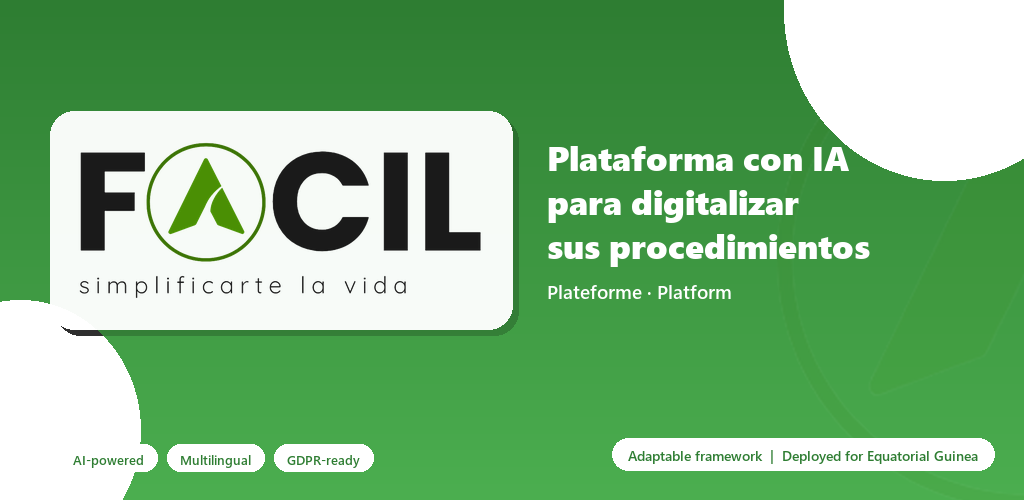
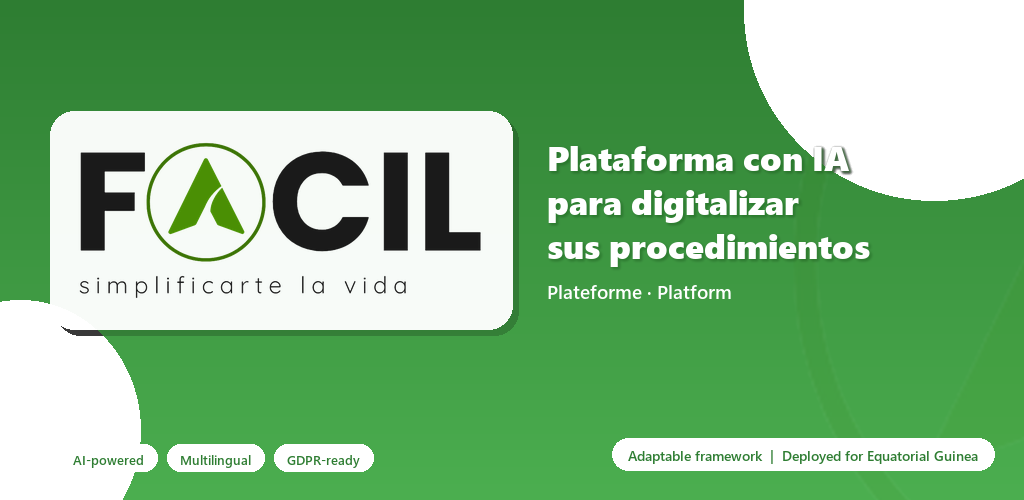
feat(mobile/phase10/E): feature graphic v7 + Settings About screen with copyright
Phase 10/E v3 — final iteration after user feedback 2026-05-02.

Feature graphic v7:
- Background icon enlarged x1.5 (600 -> 900px), same anchor (left edge
  at x=744 — preserves user's "garde la même position" requirement)
- Decorative circles RESTORED to v1 strict values (top-right 28 alpha,
  bottom-left 18 alpha) per user "remettre à l'état précédent"
- Hero text "Plataforma con IA para digitalizar sus procedimientos" —
  added a soft dark drop-shadow (offsets 1,1 + 2,2, alpha 60-90, 1.2px
  Gaussian blur) to guarantee legibility even where the green circle
  + faded bg-icon stack underneath the text. Without the shadow the
  "IA" word was visually clipped (v4-v6).
- All other elements unchanged: logo card lifted 30px, chips bottom-left,
  country pill bottom-right.

Settings -> About screen (NEW — user-validated relocation of copyright):
- packages/mobile/src/app/settings/about.tsx
    Lists app version + build number, current deployment country (GE),
    framework attribution (KOUEMOU SAH Jean Emac), contact email
    (kouemou.sah@gmail.com), GitHub repo link, copyright + license note
    + tech stack credits footer. All copy exposed as i18n keys to allow
    later overrides per deployment instance.
- packages/mobile/src/app/settings/_layout.tsx — register `about` route
- packages/mobile/src/app/(tabs)/profile.tsx — append "About Facil"
  list item to the existing Legal section (between Cookies and Danger
[…]

Changed region(s): [[0.7188, 0.0, 1.0, 0.42]]

diff --git a/packages/mobile/src/app/settings/about.tsx b/packages/mobile/src/app/settings/about.tsx
@@ -1,0 +1,169 @@
+/**
+ * About screen — app version, copyright, contact, framework attribution.
+ *
+ * Reachable from Profile screen → "About / Acerca de" list item. Implements
+ * the user-facing copyright placement (vs. on the Play Store feature graphic
+ * — see Phase 10/E critique §6 for the design rationale).
+ *
+ * Phase 10/E v3 (2026-05-02).
+ */
+
+import React from 'react';
+import { Linking, ScrollView, StyleSheet, View } from 'react-native';
+import { Divider, List, Text } from 'react-native-paper';
+import { Stack } from 'expo-router';
+import { useTranslation } from 'react-i18next';
+import Constants from 'expo-constants';
+
+import { useAppTheme } from '@core/theme';
+import { appConfig } from '@core/config/app';
+
+const COPYRIGHT_HOLDER = 'KOUEMOU SAH Jean Emac';
+const COPYRIGHT_EMAIL = 'kouemou.sah@gmail.com';
+const FRAMEWORK_REPO_URL = 'https://github.com/KouemouSah/taxasge';
+
+export default function AboutScreen() {
+  const { t } = useTranslation();
+  const { colors } = useAppTheme();
+
+  const version = Constants.expoConfig?.version ?? appConfig.app.version;
+  const buildNumber =
+    Constants.expoConfig?.android?.versionCode?.toString() ??
+    Constants.expoConfig?.ios?.buildNumber ??
+    'dev';
+  const currentYear = new Date().getFullYear();
+
+  const handleEmailPress = () => {
+    Linking.openURL(`mailto:${COPYRIGHT_EMAIL}?subject=Facil%20mobile%20app`);
+  };
+
+  const handleRepoPress = () => {
+    Linking.openURL(FRAMEWORK_REPO_URL);
+  };
+
+  return (
+    <>
+      <Stack.Screen options={{ title: t('settings.about.title', { defaultValue: 'About' }) }} />
+      <ScrollView
+        style={{ flex: 1, backgroundColor: colors.background }}
+        contentContainerStyle={styles.content}
+      >
+        {/* App identity */}
+        <View style={styles.brandSection}>
+          <Text variant="headlineMedium" style={[styles.appName, { color: colors.primary }]}>
+            Facil
+          </Text>
+          <Text variant="bodyMedium" style={{ color: colors.onSurfaceVariant }}>
+            {t('settings.about.tagline', {
+              defaultValue: 'Adaptable framework for digitizing administrative procedures',
+            })}
+          </Text>
+        </View>
+
+        <Divider />
+
+        {/* Version + build */}
+        <View style={{ backgroundColor: colors.surface }}>
+          <List.Item
+            title={t('settings.about.version', { defaultValue: 'Version' })}
+            description={`${version} (build ${buildNumber})`}
+            left={(props) => <List.Icon {...props} icon="information-outline" />}
+          />
+        </View>
+
+        <Divider />
+
+        {/* Current deployment instance */}
+        <View style={{ backgroundColor: colors.surface }}>
+          <List.Subheader style={{ color: colors.primary }}>
+            {t('settings.about.deployment', { defaultValue: 'Current deployment' })}
+          </List.Subheader>
+          <List.Item
+            title={t('settings.about.country', { defaultValue: 'Republic of Equatorial Guinea' })}
+            description={t('settings.about.partner', {
+              defaultValue: 'In partnership with the General Directorate of Taxes (DGI)',
+            })}
+            left={(props) => <List.Icon {...props} icon="earth" />}
+          />
+        </View>
+
+        <Divider />
+
+        {/* Framework + author */}
+        <View style={{ backgroundColor: colors.surface }}>
+          <List.Subheader style={{ color: colors.primary }}>
+            {t('settings.about.framework', { defaultValue: 'Framework' })}
+          </List.Subheader>
+          <List.Item
+            title={t('settings.about.author', { defaultValue: 'Author' })}
+            description={COPYRIGHT_HOLDER}
+            left={(props) => <List.Icon {...props} icon="account-outline" />}
+          />
+          <List.Item
+            title={t('settings.about.contact', { defaultValue: 'Contact' })}
+            description={COPYRIGHT_EMAIL}
+            left={(props) => <List.Icon {...props} icon="email-outline" />}
+            right={(props) => <List.Icon {...props} icon="open-in-new" />}
+            onPress={handleEmailPress}
+          />
+          <List.Item
+            title={t('settings.about.repo', { defaultValue: 'Source repository' })}
+            description="github.com/KouemouSah/taxasge"
+            left={(props) => <List.Icon {...props} icon="github" />}
+            right={(props) => <List.Icon {...props} icon="open-in-new" />}
+            onPress={handleRepoPress}
+          />
+        </View>
+
+        <Divider />
+
+        {/* Copyright + license */}
+        <View style={[styles.legalSection, { backgroundColor: colors.surface }]}>
+          <Text variant="bodySmall" style={[styles.copyright, { color: colors.onSurfaceVariant }]}>
+            © {currentYear} {COPYRIGHT_HOLDER}.{' '}
+            {t('settings.about.copyrightSuffix', { defaultValue: 'All rights reserved.' })}
+          </Text>
+          <Text variant="bodySmall" style={[styles.copyright, { color: colors.onSurfaceVariant, marginTop: 8 }]}>
+            {t('settings.about.licenseNote', {
+              defaultValue:
+                'Facil is a proprietary framework. The current deployment instance is operated for the Republic of Equatorial Guinea.',
+            })}
+          </Text>
+        </View>
+
+        {/* Tech stack credits (optional, footer) */}
+        <View style={styles.creditsFooter}>
+          <Text variant="labelSmall" style={{ color: colors.onSurfaceVariant, textAlign: 'center' }}>
+            {t('settings.about.builtWith', { defaultValue: 'Built with' })}{' '}
+            React Native · Expo SDK 54 · FastAPI · PostgreSQL · Gemini 2.5
+          </Text>
+        </View>
+      </ScrollView>
+    </>
+  );
+}
+
+const styles = StyleSheet.create({
+  content: {
+    paddingBottom: 32,
+  },
+  brandSection: {
+    paddingHorizontal: 20,
+    paddingVertical: 24,
+  },
+  appName: {
+    fontWeight: '700',
+    marginBottom: 4,
+  },
+  legalSection: {
+    paddingHorizontal: 20,
+    paddingVertical: 16,
+  },
+  copyright: {
+    lineHeight: 18,
+  },
+  creditsFooter: {
+    paddingHorizontal: 20,
+    paddingVertical: 24,
+  },
+});

diff --git a/packages/mobile/src/app/(tabs)/profile.tsx b/packages/mobile/src/app/(tabs)/profile.tsx
@@ -408,6 +408,13 @@ function ProfileScreenContent() {
             right={(props) => <List.Icon {...props} icon="chevron-right" />}
             onPress={() => router.push('/legal/cookies' as never)}
           />
+          <List.Item
+            title={t('settings.about.title', { defaultValue: 'About Facil' })}
+            description={t('settings.about.subtitle', { defaultValue: 'Version, copyright, contact' })}
+            left={(props) => <List.Icon {...props} icon="information-outline" />}
+            right={(props) => <List.Icon {...props} icon="chevron-right" />}
+            onPress={() => router.push('/settings/about' as never)}
+          />
         </View>
 
         <Divider />

diff --git a/packages/mobile/src/app/settings/_layout.tsx b/packages/mobile/src/app/settings/_layout.tsx
@@ -40,6 +40,10 @@ export default function SettingsLayout() {
         name="sessions"
         options={{ title: t('profile.sessions') }}
       />
+      <Stack.Screen
+        name="about"
+        options={{ title: t('settings.about.title', { defaultValue: 'About' }) }}
+      />
     </Stack>
   );
 }
